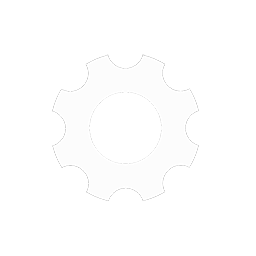
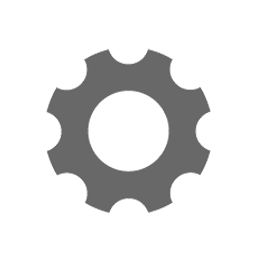
Implemented log out link

Changed region(s): [[0.1875, 0.1875, 0.8438, 0.8438]]

diff --git a/client/www/index.html b/client/www/index.html
@@ -48,6 +48,11 @@
                 <i></i>
             </button>
 
+            <!-- settings button -->
+            <button id="settings" class="tiny ui secondary button">
+                <i></i>
+            </button>
+
             <!-- tabs -->
             <div class="ui top attached tabular menu">
                 <a class="item active" data-tab="first" data-list="need">iNeedToBuy.XYZ</a>
@@ -60,6 +65,17 @@
                 <div class="new-product-button-container">
                     <div class="hump"></div>
                     <div id="new-product-button"><img src="img/camera-icon.png" alt=""></div>
+                </div>
+            </div>
+
+            <!-- settings modal -->
+            <div id="settings-modal" class="ui large modal">
+                <div class="header">Settings</div>
+                <div class="actions">
+                    <div class="ui left aligned segment logout">
+                        <a href="index.html">Sign Out</a>
+                    </div>
+                    <div class="ui cancel button">Close</div>
                 </div>
             </div>
 

diff --git a/client/www/css/styles.css b/client/www/css/styles.css
@@ -40,15 +40,18 @@ h1 {
     width: 32px;
 }
 
-/* refresh button */
-#refresh {
+/* buttons */
+.ui.secondary.button {
+    background: #e0e1e2;
+}
+
+#refresh, #settings {
     margin-right: 0;
     position: absolute;
-    right: 0;
     top: 0;
     width: 32px;
 }
-    #refresh i {
+    #refresh i, #settings i {
         background: transparent url(../img/refresh-icon.png) center center no-repeat;
         background-size: 24px 24px;
         display: inline-block;
@@ -61,6 +64,19 @@ h1 {
         #refresh.loading i {
             visibility: hidden;
         }
+
+/* refresh button */
+#refresh {
+    right: 0;
+}
+
+/* settings button */
+#settings {
+    right: 42px;
+}
+    #settings i {
+        background-image: url(../img/settings-icon.png);
+    }
 
 .list {
     position: relative;

diff --git a/client/www/js/barcodereader.js b/client/www/js/barcodereader.js
@@ -101,7 +101,7 @@ var BarcodeReader = (function (window, document, $, undefined) {
                 dimmer.classList.remove('active');
 
                 // show product modal
-                $('#new-product').modal('show');
+                $('#new-product').modal({ blurring: true }).modal('show');
 
                 // update the range input
                 rangeInput.update();
@@ -168,7 +168,8 @@ var BarcodeReader = (function (window, document, $, undefined) {
      * Called if image capture fails
      */
     proto.onCaptureFail = function (message) {
-        rafAlert('Image capture failed because: ' + message);
+        // user probably hit 'cancel', fail silently
+        // rafAlert('Image capture failed because: ' + message);
     };
 
     return BarcodeReader;

diff --git a/client/www/js/behaviors.js b/client/www/js/behaviors.js
@@ -77,6 +77,10 @@
                 });
             }
         });
+
+        $('#settings').on('click', function (evt) {
+            $('#settings-modal').modal({ blurring: true }).modal('show');
+        });
     }
 
     function initLists() {
